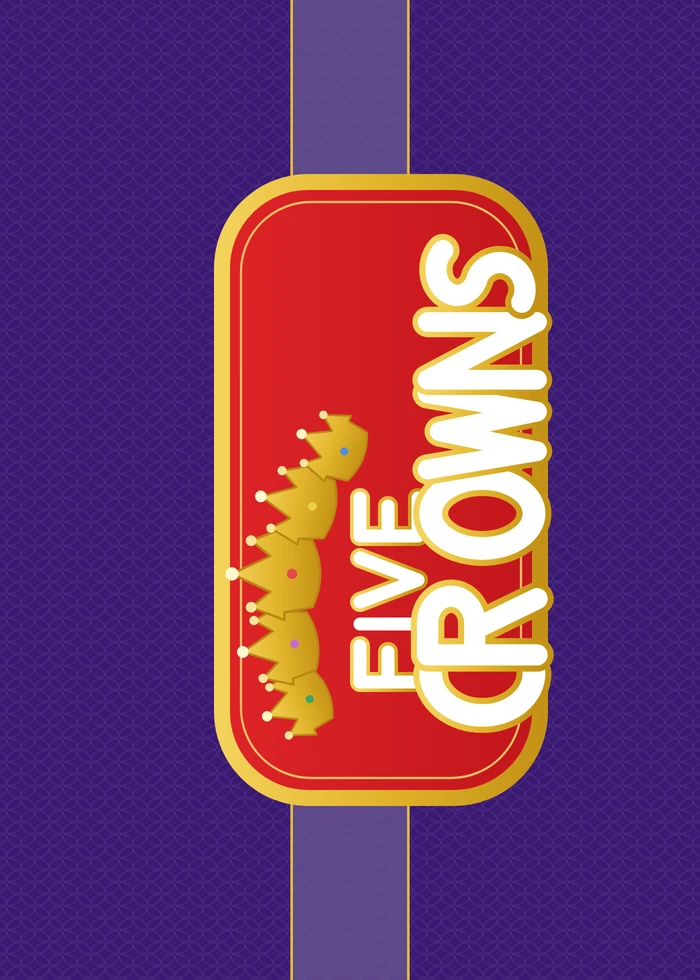
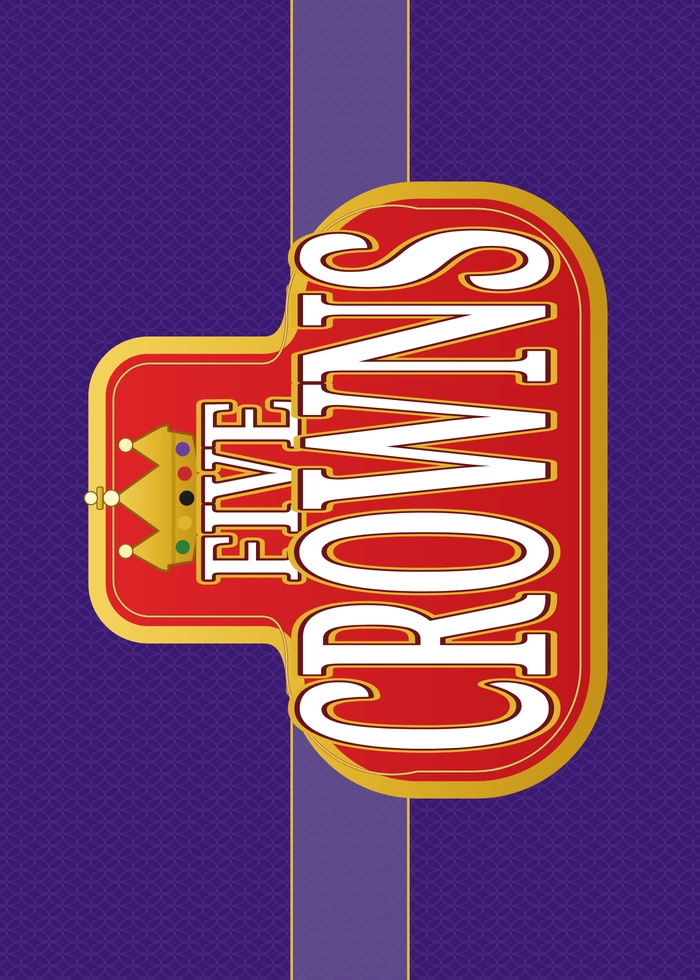
Redraw Five Crowns as a stepped crown mark, not a pill.
Matt rejected 633667b: the face read as a generic red rounded badge
with tiny type and a smeared row of five crowns. The new SVG uses a
short FIVE tier, a longer CROWNS tier that overhangs the band, one
jeweled gold crown, and chunky white serif with a gold outline.
Heat side pads get a light horizontal blend so the wrap does not
tile as vertical streaks. Draft only.

diff --git a/scripts/fill-card-faces.py b/scripts/fill-card-faces.py
@@ -179,7 +179,32 @@ def extend(arr, spec):
     else:
         canvas = extend_heat(content, src_l, src_r, spec["period"])
         canvas = scrub_pad(canvas, src_l, src_r, heat_bg)
+        canvas = soften_heat_pads(canvas, src_l, src_r)
     return canvas, (src_l, src_r)
+
+
+def soften_heat_pads(canvas, src_l, src_r, depth=32):
+    """Horizontal blend on the side pads so a short wrap does not tile as streaks."""
+    out = canvas.astype(np.float32)
+    white = near_white(canvas, floor=188, spread=55)
+    kernel = np.array([1, 2, 3, 4, 3, 2, 1], dtype=np.float32)
+    kernel /= kernel.sum()
+
+    def blur_span(x0, x1):
+        region = out[:, x0:x1]
+        pad_l = np.repeat(region[:, :1], 3, axis=1)
+        pad_r = np.repeat(region[:, -1:], 3, axis=1)
+        ext = np.concatenate([pad_l, region, pad_r], axis=1)
+        mixed = np.zeros_like(region)
+        for i, k in enumerate(kernel):
+            mixed += ext[:, i : i + region.shape[1]] * k
+        keep = ~white[:, x0:x1]
+        region[keep] = mixed[keep] * 0.72 + region[keep] * 0.28
+        out[:, x0:x1] = region
+
+    blur_span(0, min(depth, src_l))
+    blur_span(max(src_r, canvas.shape[1] - depth), canvas.shape[1])
+    return np.clip(out, 0, 255).astype(np.uint8)
 
 
 def scrub_pad(canvas, src_l, src_r, bg_fn):

diff --git a/AGENTS.md b/AGENTS.md
@@ -44,7 +44,7 @@ North star: crush requirements so one-shots get better every correction.
 - A hidden scorecard column is not a deleted hand. If Pace or the column trim removes the hand a Life Preserver followed, the mark sits with Total. Place ties use the same numeric comparison as the sort, including numeric strings. See `docs/solutions/scorecard-places-and-life-preserver.md`.
 - Life Preserver labels stay inside every slice. About 20-40 equal-ish pockets. Category shares stay exact via subtle widths; the draw still uses the live 45/30/5/12/8 table. No callouts, leader lines, or casino red/black. Cute cream/teal toy roulette, not casino chrome. Size the modal from leftover viewport so Use Your One Spin stays on screen. Proposed 30/45/10/15 amounts stay behind `?demo&lp=proposed`. See `docs/solutions/rc1-lp-roulette-wheel.md`.
 - Laptop Home columns stretch to the same height. Seats are one per row and reorder in the list. Recent nights stays full width. Home reorder writes `players` only; it does not restack an active match. See `docs/solutions/home-recent-nights-column.md`.
-- Home picker faces are upright 5:7 cards with one shared outer size, ~10px radius, and a 220px TV cap. Faces are pre-padded 5:7 webps with `object-fit: cover`. No leftover porch tiles. No name or rule under the cards. Select, then Start. Lay out the Home columns first; cards take leftover space. Tonight's Table stays wide enough for first names. The Start bar stays inside the panel. Rook / Beat the Heat defaults are the edge-filled faces. Five Crowns is the designed SVG raster, not a retouched photo. See `docs/solutions/card-picker.md`.
+- Home picker faces are upright 5:7 cards with one shared outer size, ~10px radius, and a 220px TV cap. Faces are pre-padded 5:7 webps with `object-fit: cover`. No leftover porch tiles. No name or rule under the cards. Select, then Start. Lay out the Home columns first; cards take leftover space. Tonight's Table stays wide enough for first names. The Start bar stays inside the panel. Rook / Beat the Heat defaults are the edge-filled faces. Five Crowns is the designed SVG raster (stepped crown frame, one jeweled crown, chunky serif), not a retouched photo. See `docs/solutions/card-picker.md`.
 - NAME-FIT uses one shared column size. Shrink for a long name. Do not grow a short name past that size. Saved is not a nav slot. Life Preserver header copy states the computed spin range; negative slices stay.
 - Bid accuracy uses the stored bid and actual on a played round. A missing bid or actual is unknown, not a guess from the score. A Life Preserver, including a zero-point spin, marks the match assisted until undo removes the last spin. A historical trick correction uses that round's players and must not replace a different live match. See `docs/solutions/data-integrity-records.md`.
 - A cloud revision or sync redesign waits for a named ticket or PR intent. This release is local-only: the client does not call `/api/sync`. `api/sync.js` and Redis `gamenight:backup:v1` stay untouched. `#37` stays parked. See `docs/solutions/rc1-local-only.md`.

diff --git a/docs/taste.md b/docs/taste.md
@@ -11,7 +11,7 @@ Canonical list: [taste-ledger.md](taste-ledger.md). After every durable Matt cor
 ### Likes
 
 - A picker face fills the 5:7 frame edge to edge like a real card back. If the art is narrower, extend the repeating pattern or gradient — do not stretch, and do not leave a solid side strip. The frame radius is the only corner.
-- Five Crowns on the picker is the real back drawn clean: purple lattice, gold-edged band, sideways gold-and-red FIVE CROWNS mark. Canasta sets the polish. Matt's photo is the reference, not the face.
+- Five Crowns on the picker is the real back drawn clean: purple lattice, gold-edged band, stepped gold-and-red FIVE CROWNS mark with one jeweled crown. Canasta sets the polish. Matt's photo is the reference, not the face.
 - Home picker faces are exact 5:7 cards with cover, and nothing from the old porch tiles peeks beside them. Seat rows keep their height and scroll. 1024 landscape and 1920 TV are the layouts that matter.
 - Matt's 12:23 PM ET go to preview Canasta (Hand and Foot) on the RC1 picker, with house rules in one `CANASTA_RULES` object and Rook hidden unless `?demo&games=rook`.
 - Full two-line Canasta team names (`Megan &` / `Matt`) with no ellipsis, and the dusk Canasta tile used in both art sets until Matt picks a beach tile.
@@ -45,7 +45,7 @@ Canonical list: [taste-ledger.md](taste-ledger.md). After every durable Matt cor
 - A Home picker grid that overflows Start a New Match, or a dead band between the cards and Start at 1024 landscape.
 - A solid-color side pad or the source card's own white rounded corners showing inside the picker frame (Rook / Beat the Heat). Extend the background; do not stretch.
 - Old porch or tropical tiles showing through beside a picker face, or a white sliver on Five Crowns.
-- Retouching or straightening Matt's Five Crowns photo for the picker. Draw the back clean. Do not ship a generic red plaque that is not the Five Crowns mark.
+- Retouching or straightening Matt's Five Crowns photo for the picker. Draw the back clean. Do not ship a generic red rounded-rect pill, tiny tubular type, or a smeared row of five crowns. The mark is one jeweled crown on a stepped gold frame, FIVE shorter, CROWNS much larger.
 - Tonight's Table seat rows that compress, overlap, clip the dealer pill, hide seated people behind chips, or truncate names to an initial.
 - Calling ready without opening the real UI.
 - Ready-to-test language without a filled [prove-it packet](prove-it-packet.md).

diff --git a/docs/taste-ledger.md b/docs/taste-ledger.md
@@ -7,7 +7,7 @@ Seeded from Prefer, Avoid, and Kill in `docs/taste.md`. Product rules stay in `d
 ## Likes
 
 - A picker face fills the 5:7 frame edge to edge like a real card back. If the art is narrower, extend the repeating pattern or gradient — do not stretch, and do not leave a solid side strip. The frame radius is the only corner.
-- Five Crowns on the picker is the real back drawn clean: purple lattice, gold-edged band, sideways gold-and-red FIVE CROWNS mark. Canasta sets the polish. Matt's photo is the reference, not the face.
+- Five Crowns on the picker is the real back drawn clean: purple lattice, gold-edged band, stepped gold-and-red FIVE CROWNS mark with one jeweled crown. Canasta sets the polish. Matt's photo is the reference, not the face.
 - Home picker faces are exact 5:7 cards with cover, and nothing from the old porch tiles peeks beside them. Seat rows keep their height and scroll. 1024 landscape and 1920 TV are the layouts that matter.
 - Matt's 12:23 PM ET go to preview Canasta (Hand and Foot) on the RC1 picker, with house rules in one `CANASTA_RULES` object and Rook hidden unless `?demo&games=rook`.
 - Full two-line Canasta team names (`Megan &` / `Matt`) with no ellipsis, and the dusk Canasta tile used in both art sets until Matt picks a beach tile.
@@ -41,7 +41,7 @@ Seeded from Prefer, Avoid, and Kill in `docs/taste.md`. Product rules stay in `d
 - A Home picker grid that overflows Start a New Match, or a dead band between the cards and Start at 1024 landscape.
 - A solid-color side pad or the source card's own white rounded corners showing inside the picker frame (Rook / Beat the Heat). Extend the background; do not stretch.
 - Old porch or tropical tiles showing through beside a picker face, or a white sliver on Five Crowns.
-- Retouching or straightening Matt's Five Crowns photo for the picker. Draw the back clean. Do not ship a generic red plaque that is not the Five Crowns mark.
+- Retouching or straightening Matt's Five Crowns photo for the picker. Draw the back clean. Do not ship a generic red rounded-rect pill, tiny tubular type, or a smeared row of five crowns. The mark is one jeweled crown on a stepped gold frame, FIVE shorter, CROWNS much larger.
 - Tonight's Table seat rows that compress, overlap, clip the dealer pill, hide seated people behind chips, or truncate names to an initial.
 - Calling ready without opening the real UI.
 - Ready-to-test language without a filled `docs/prove-it-packet.md`.

diff --git a/docs/solutions/five-crowns-designed-back.md b/docs/solutions/five-crowns-designed-back.md
@@ -2,8 +2,8 @@
 
 Matt's photo is the reference for the real Five Crowns back. It is not the picker face.
 
-The Home face is a clean 700×980 SVG raster (`public/assets/cards/five-crowns.svg` → `five-crowns.webp`). Canasta sets the polish: flat color, crisp type, edge to edge, no photo grain. The mark still has to read as Five Crowns: deep purple lattice, lighter-purple gold-edged band, sideways gold-and-red FIVE CROWNS logo with the crown cluster on the left. No copyright. The tagline stays off unless it is crisp at 2×.
+The Home face is a clean 700×980 SVG raster (`public/assets/cards/five-crowns.svg` → `five-crowns.webp`). Canasta sets the polish: flat color, crisp type, edge to edge, no photo grain. The mark still has to read as Five Crowns: deep purple lattice, lighter-purple gold-edged band, and a sideways gold-and-red FIVE CROWNS logo. The gold frame is crown-shaped: a short FIVE tier and a longer wider CROWNS tier that overhangs the center band. One jeweled gold crown (suit gems, not a row of five) sits in the FIVE field. Lettering is chunky white serif with a gold outline and a thin dark inner line; CROWNS is much larger than FIVE. At 136×190 the words stay readable. The frame spans about 65-70% of card width and about 60% of height. No copyright. No tagline.
 
 Do not retouch, warp, or straighten the photo. Do not run `fit-card-faces.py` on this face; it is already 5:7.
 
-Rook and Beat the Heat defaults are the edge-filled faces. Pads use background only so a crow tail or pepper flame does not repeat at the edge.
+Rook and Beat the Heat defaults are the edge-filled faces. Pads use background only so a crow tail or pepper flame does not repeat at the edge. Heat pads get a short horizontal blend so a wrapped strip does not tile as vertical streaks.

diff --git a/docs/solutions/gate-log.md b/docs/solutions/gate-log.md
@@ -106,3 +106,5 @@ The table starts with a header and one example row. The example is the format. I
 | 2026-10-28 | #78-cardfill | taste_ui. Rook/Heat edge-fill behind ?demo&cardfill=1. No stretch. Defaults stay. Matt pick. | 3 | n/a | fallback | Gate C. Conservative. Check pass. card-picker Playwright 7/7. Looked 136×190 before/after + 2× seams and 1024 Home with fill on. Draft only. Do not undraft or merge. |
 | 2026-10-28 | #78-faces-default | taste_ui. Rook/Heat fills become default. Designed Five Crowns SVG from Matt photo. No photo retouch. | 3 | n/a | fallback | Gate B. Proceed on draft PR #78. Do not undraft or merge. |
 | 2026-10-28 | #78-faces-default | taste_ui. Rook/Heat fills become default. Designed Five Crowns SVG from Matt photo. No photo retouch. | 3 | n/a | fallback | Gate C. Conservative. Check pass. card-picker Playwright 7/7. Looked five-crowns-before-after, rook-heat-cleanup, home-1024-4seated, plus 1920 and 390. Draft only. Do not undraft or merge. |
+| 2026-10-28 | #78-fc-logo | taste_ui. Five Crowns 633667b pill rejected. Stepped crown frame, one jeweled crown, chunky serif. Heat pad soften. | 3 | n/a | fallback | Gate B. Proceed on draft PR #78. Do not undraft or merge. |
+| 2026-10-28 | #78-fc-logo | taste_ui. Five Crowns 633667b pill rejected. Stepped crown frame, one jeweled crown, chunky serif. Heat pad soften. | 3 | n/a | fallback | Gate C. Conservative. Check pass. card-picker Playwright 7/7. Looked five-crowns-before-after (old/new/photo + 2x) and home-1024-4seated against Matt photo. Draft only. Do not undraft or merge. |

diff --git a/docs/solutions/card-picker.md b/docs/solutions/card-picker.md
@@ -8,7 +8,7 @@ Matt's Home picker is seven upright 5:7 card backs. The cards speak for themselv
 - The frame does not carry `s2-art-*`. Old porch/tropical tile backgrounds stay off the picker.
 - Faces live in `public/assets/cards/*.webp`. Select, then Start.
 - Rook and Beat the Heat defaults are the edge-filled 5:7 faces. Pads use background only (teal clover / Heat field). Do not stretch. The frame radius is the only corner.
-- Five Crowns is a designed 700×980 SVG raster (`five-crowns.svg` → `five-crowns.webp`), drawn from Matt's photo: purple lattice, gold-edged band, sideways gold-and-red FIVE CROWNS mark, no copyright. Do not retouch the photo.
+- Five Crowns is a designed 700×980 SVG raster (`five-crowns.svg` → `five-crowns.webp`), drawn from Matt's photo: purple lattice, gold-edged band, stepped gold-and-red FIVE CROWNS mark with one jeweled crown, no copyright. Do not retouch the photo.
 - iPad landscape 1024×768 and TV 1920×1080 are the primary layouts (landscape iPad mirrored to TV). Portrait and phone must not break.
 - Columns first, then cards. Tonight's Table is 348–360px at 1024 so first names stay whole. The seven 5:7 cards take leftover space (4+3). The Start bar stays inside Start a New Match.
 - Tonight's Table rows keep their natural height. The table scrolls when the list is long. Four seated shows every chip. The seat grid never shrinks behind chips and never uses `1fr` rows.
